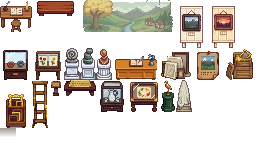
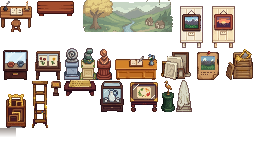
Gilded Vale hall: each sculpture on a plinth of its own, with the reason in its text
The user, 2026-11-07, liking the heron's green marble and wanting more
colour: the spiral on slate (the same river stone), the Kiln Woman on bricks
from the kiln's first chimney, the Moss Figure on the old studios' sandstone
doorstep, moss and all. tools/art/vale_plinths.py recolours only the plinths.

Changed region(s): [[0.25, 0.3889, 0.4375, 0.5556]]

diff --git a/tools/art/vale_plinths.py b/tools/art/vale_plinths.py
@@ -1,0 +1,47 @@
+"""Gives the Exhibition Hall's sculptures plinths of their own (the user, 2026-11-07:
+"more color variety"; each colour has its reason in the plaque text). Recolours
+only a plinth's grey stone, below the sculpture, by its brightness onto a new
+ramp; the sculpture stays as PixelLab drew it.
+
+Usage: vale_plinths.py   (writes art/gilded_vale/interiors/hall/plinth_*.png)
+"""
+import colorsys, os, random
+from PIL import Image
+
+HALL = "art/gilded_vale/interiors/hall"
+# out name: (source, first plinth row, ramp dark -> light, moss specks)
+PLINTHS = {
+    "plinth_slate":     ("hall_v1/plinth_1_0", 14, [(34, 38, 50), (72, 84, 104), (118, 134, 156), (170, 184, 200)], False),
+    "plinth_sandstone": ("hall_v1/plinth_1_5", 12, [(70, 52, 32), (146, 114, 70), (196, 166, 112), (228, 208, 160)], True),
+    "plinth_brick":     ("hall_v1/plinth_1_7", 13, [(44, 18, 18), (92, 34, 30), (128, 52, 42), (164, 84, 66)], False),
+}
+
+
+def ramp(stops, t):
+    t = max(0.0, min(1.0, t)) * (len(stops) - 1)
+    i = min(int(t), len(stops) - 2)
+    f = t - i
+    return tuple(round(stops[i][k] + (stops[i + 1][k] - stops[i][k]) * f) for k in range(3))
+
+
+def main():
+    rnd = random.Random(7)
+    for out, (src, y0, stops, moss) in PLINTHS.items():
+        im = Image.open(os.path.join(HALL, src + ".png")).convert("RGBA")
+        px = im.load()
+        greys = [(x, y) for y in range(y0, im.height) for x in range(im.width)
+                 if px[x, y][3] and colorsys.rgb_to_hsv(*[c / 255 for c in px[x, y][:3]])[1] < 0.2]
+        lums = [sum(px[x, y][:3]) / 765 for x, y in greys]
+        lo, hi = min(lums), max(lums)
+        for (x, y), l in zip(greys, lums):
+            px[x, y] = (*ramp(stops, (l - lo) / (hi - lo or 1)), px[x, y][3])
+        if moss:                     # moss on its top edge and down its corners
+            for x, y in greys:
+                if (y < y0 + 3 or x < 3 or x > im.width - 4) and rnd.random() < 0.35:
+                    px[x, y] = rnd.choice([(74, 110, 52, 255), (98, 138, 60, 255), (60, 88, 44, 255)])
+        im.save(os.path.join(HALL, out + ".png"))
+        print("wrote", out)
+
+
+if __name__ == "__main__":
+    main()

diff --git a/tools/build_vale_buildings.py b/tools/build_vale_buildings.py
@@ -261,8 +261,8 @@ BUILDINGS = {
         picks={"bench": "art/gilded_vale/interiors/atelier/bench_clean",
                **{k: "art/gilded_vale/interiors/hall/hall_v1/" + v for k, v in {
                    "mural": "../mural_faded", "panel": "panel_1_0", "panel_b": "panel_1_2", "bowl_case": "bowl_case_1_1",
-                   "flower_case": "flower_case_2_8", "plinth": "plinth_1_0", "plinth_b": "plinth_1_5",
-                   "plinth_c": "plinth_1_7", "reception": "reception_1_6",
+                   "flower_case": "flower_case_2_8", "plinth": "../plinth_slate", "plinth_b": "../plinth_sandstone",
+                   "plinth_c": "../plinth_brick", "reception": "reception_1_6",     # (plinths: tools/art/vale_plinths.py)
                    "sheeted": "sheeted_1_5", "poster": "poster_1_0", "crates": "crates_1_7",
                    "frame_rack": "frame_rack_1_1", "ladder": "ladder_1_8", "plaque": "../hall_v2/plaque_1_0",
                    "plaque_wide": "../hall_v3/plaque_wide_1_0", "jug_case": "../hall_v3/jug_case_1_1",
